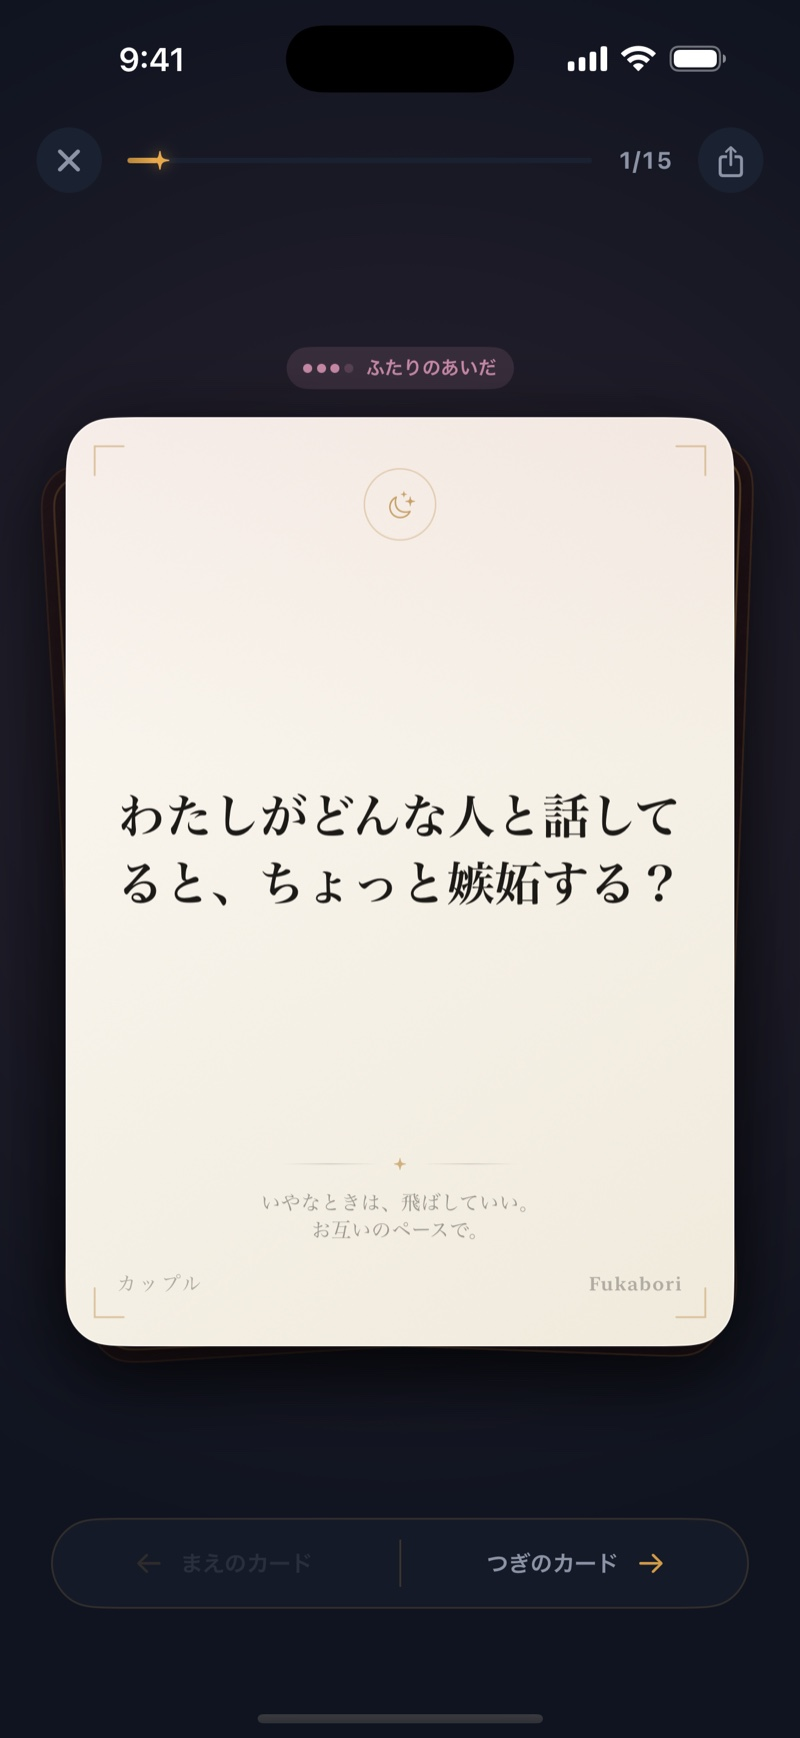
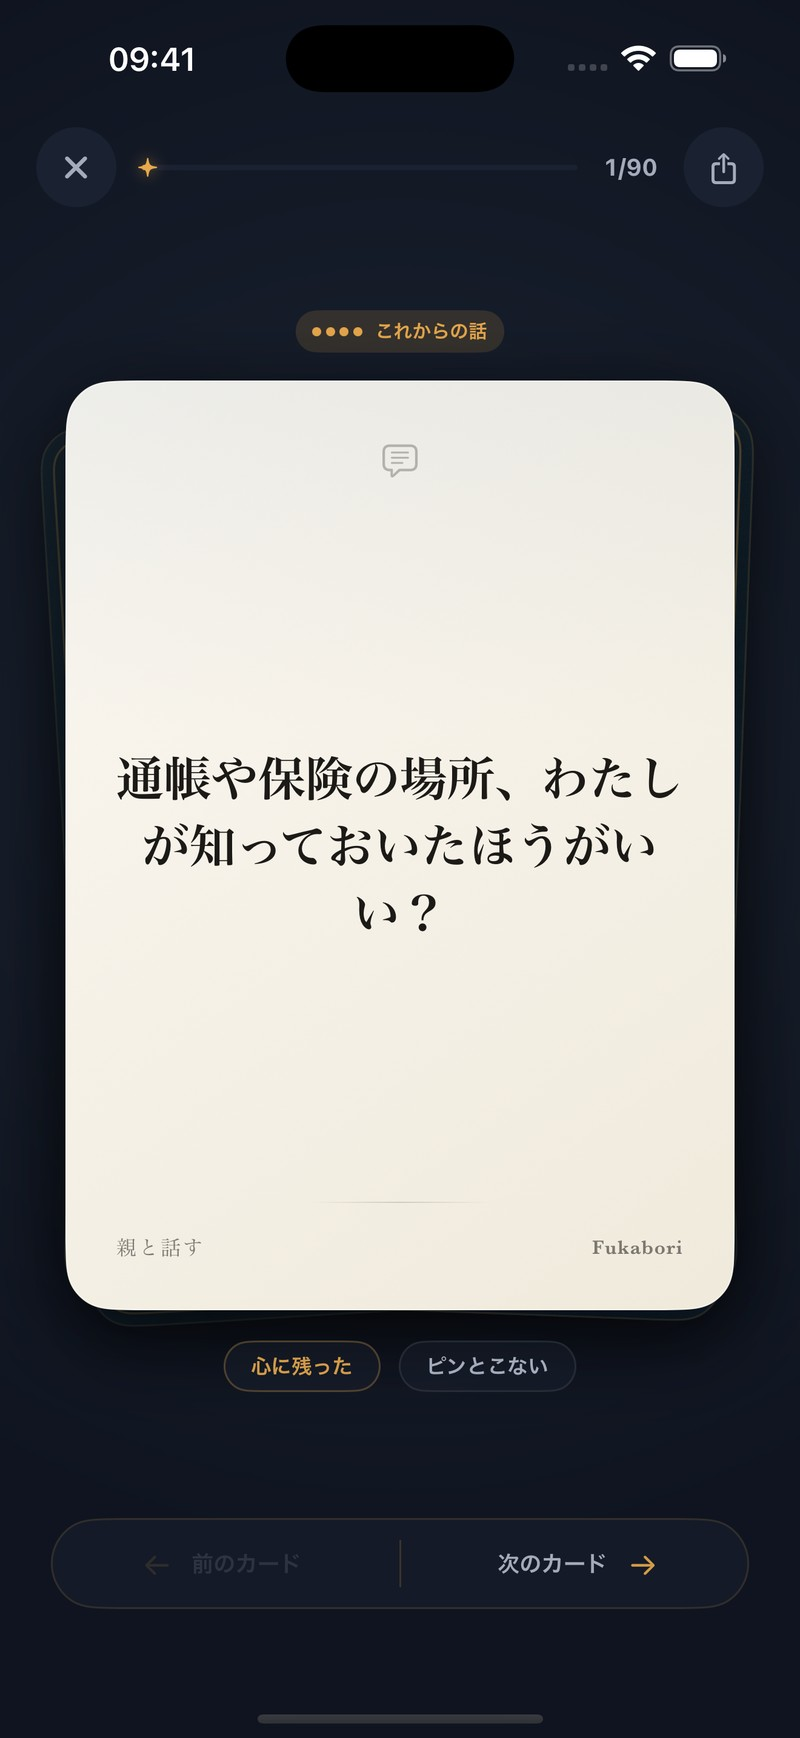
新アイコンと会話を主役にしたデザインを公開

diff --git a/index.html b/index.html
@@ -25,14 +25,12 @@
   .ic { width: 1em; height: 1em; vertical-align: -0.12em; }
   .ic-line { width: 24px; height: 24px; }
   .qcard.back .ic { width: 34px; height: 34px; color: var(--amber); filter: drop-shadow(0 0 12px rgba(232,169,76,.45)); }
-  .moon-stamp .ic { width: 18px; height: 18px; }
   a { color: inherit; text-decoration: none; }
   .wrap { max-width: 1080px; margin: 0 auto; padding: 0 24px; }
 
   /* nav */
   nav { display: flex; align-items: center; justify-content: space-between; padding: 22px 0; }
   .logo { display: flex; align-items: center; gap: 10px; color: var(--amber); font-size: 22px; }
-  .logo .moon { font-size: 18px; }
   .logo small { color: var(--text2); font-size: 11px; letter-spacing: 3px; margin-left: 2px; }
   nav .links { display: flex; gap: 28px; font-size: 13px; color: var(--text2); }
   nav .links a:hover { color: var(--amber); }
@@ -106,7 +104,8 @@
   }
   .qcard.paper .level { display: flex; align-items: center; gap: 7px; font-size: 11px; color: #5c8d7c; font-weight: 600; }
   .qcard.paper .level i { width: 8px; height: 8px; border-radius: 50%; background: #7FB6A4; }
-  .qcard.paper .q { margin: auto 0; font-size: 21px; font-weight: 600; line-height: 1.9; }
+  .qcard.paper .q { text-wrap: balance; margin: auto 0; font-size: 21px; font-weight: 600; line-height: 1.9; }
+  .qcard.paper .q span { display: block; white-space: nowrap; }
   .qcard.paper .foot { display: flex; justify-content: space-between; font-size: 11px; color: rgba(28,26,23,.4); }
   .qcard.back {
     background: linear-gradient(180deg, #1D2536, #121826);
@@ -114,11 +113,10 @@
     left: 50%; top: 46%;
     display: flex; align-items: center; justify-content: center; flex-direction: column; gap: 8px;
   }
-  .qcard.back::before {
-    content: ""; position: absolute; inset: 7px; border-radius: 16px;
-    border: 1px solid rgba(232,169,76,.45);
-  }
-  .qcard.back .moon { font-size: 34px; color: var(--amber); text-shadow: 0 0 24px rgba(232,169,76,.45); }
+
+  .qcard.back { overflow: hidden; }
+  .qcard.back img { width: 100%; height: 100%; object-fit: cover; }
+  .qcard.back::after { content: ""; position: absolute; inset: 0; background: rgba(11,15,24,.28); pointer-events: none; }
   .qcard.back .name { color: rgba(232,169,76,.8); font-size: 16px; }
   .qcard.back.b1 { transform: translate(-88%,-54%) rotate(-14deg); z-index: 1; opacity: .85; }
   .qcard.back.b2 { transform: translate(-14%,-48%) rotate(9deg); z-index: 2; }
@@ -163,7 +161,6 @@
     letter-spacing: 1.5px; color: rgba(28,26,23,.55);
     border: 1px solid rgba(28,26,23,.3); border-radius: 999px; padding: 4px 10px;
   }
-  .deck-card .moon-stamp { position: absolute; right: 24px; bottom: 20px; color: rgba(28,26,23,.18); }
 
   .paid-note { text-align: center; margin-top: 34px; color: var(--text2); font-size: 13px; }
   .paid-note b { color: var(--amber); font-weight: 600; }
@@ -276,7 +273,13 @@
 
     /* 縦積みではカードを小さくして、扇の幅を画面内に収める。
        transform: scale で縮めると .hero の overflow:hidden に切られる */
+    nav .logo small { display: none; }
+    nav .logo { flex-shrink: 0; font-size: 20px; }
+    nav .btn { white-space: nowrap; padding: 11px 16px; font-size: 12px; }
     .stage { height: 330px; }
+    .qcard { width: 190px; height: 270px; }
+    .qcard.paper { padding: 22px; }
+    .qcard.paper .q { font-size: 17px; line-height: 1.7; }
     .fan { width: 190px; }
     .fan.back.left  { transform: translate(-80%,-52%) rotate(-13deg); }
     .fan.back.right { transform: translate(-20%,-49%) rotate(10deg); }
@@ -346,13 +349,16 @@
   document.head.appendChild(s);
 })();
 </script>
+<link rel="icon" type="image/png" sizes="32x32" href="img/brand/favicon-32.png">
+<link rel="icon" type="image/png" sizes="16x16" href="img/brand/favicon-16.png">
+<link rel="apple-touch-icon" sizes="180x180" href="img/brand/apple-touch-icon.png">
 </head>
 <body>
 
 <div class="wrap">
   <nav>
     <a class="logo serif-en" href="#">
-      <svg class="ic" viewBox="0 0 24 24" fill="currentColor" xmlns="http://www.w3.org/2000/svg"><path d="M17.39 20.42 L16.13 21.11 L14.79 21.60 L13.39 21.90 L11.96 22.00 L10.53 21.89 L9.13 21.58 L7.79 21.07 L6.54 20.37 L5.39 19.51 L4.39 18.49 L3.54 17.33 L2.86 16.07 L2.38 14.72 L2.09 13.32 L2.00 11.89 L2.12 10.46 L2.44 9.06 L2.96 7.72 L3.66 6.48 L4.54 5.34 L5.57 4.34 L6.73 3.50 L8.00 2.84 L9.35 2.36 L8.39 3.05 L7.52 3.86 L6.76 4.76 L6.10 5.74 L5.57 6.80 L5.16 7.91 L4.89 9.06 L4.76 10.23 L4.76 11.42 L4.91 12.59 L5.19 13.74 L5.61 14.85 L6.15 15.90 L6.81 16.88 L7.59 17.77 L8.46 18.56 L9.43 19.25 L10.46 19.82 L11.56 20.26 L12.70 20.57 L13.87 20.74 L15.06 20.77 L16.23 20.67 L17.39 20.42Z"/></svg>Fukabori <small>フカボリ</small>
+      <img src="img/brand/app-icon.png" width="32" height="32" alt="" style="border-radius:8px">Fukabori <small>フカボリ</small>
     </a>
     <div class="links">
       <a href="#scenes">使う場面</a>
@@ -384,13 +390,14 @@
         <span class="chip">オフラインでも使える</span>
       </div>
     </div>
-    <!-- アプリの実画面から切り出した本物のカード。
-         カップルデッキの実際の質問と、そのデッキの裏面。
-         イラストではなく中身を見せたほうが、何のアプリか一目で伝わる -->
-    <div class="stage" aria-hidden="true">
-      <img class="fan back left"  src="./img/app/hero_card_back.png"  alt="">
-      <img class="fan back right" src="./img/app/hero_card_back.png"  alt="">
-      <img class="fan front"      src="./img/app/hero_card_front.png" alt="">
+    <div class="stage" aria-label="カップルデッキの質問例">
+      <div class="qcard back b1" aria-hidden="true"><img src="img/deck/couple_v1.jpg" alt=""></div>
+      <div class="qcard back b2" aria-hidden="true"><img src="img/deck/couple_v1.jpg" alt=""></div>
+      <div class="qcard paper">
+        <div class="level">会話のきっかけ</div>
+        <p class="q serif"><span>わたしのいちばん</span><span>好きな食べ物、</span><span>当ててみて</span></p>
+        <div class="foot"><span>カップル</span><span class="serif-en">Fukabori</span></div>
+      </div>
     </div>
   </div>
 </header>
@@ -464,7 +471,7 @@
     <h2>画面はこんな感じ</h2>
     <div class="screens">
       <figure><img src="./img/app/screen_home.jpg" alt="デッキを選ぶ画面" width="800" height="1738" loading="lazy" decoding="async"><figcaption>今夜の相手と気分でデッキを選ぶ</figcaption></figure>
-      <figure><img src="./img/app/screen_pile.jpg" alt="カードの束" width="800" height="1738" loading="lazy" decoding="async"><figcaption>スマホを真ん中に置いて、1枚めくる</figcaption></figure>
+      <figure><img src="./img/app/screen_intro.jpg" alt="実際の質問が読める導入画面" width="800" height="1738" loading="lazy" decoding="async"><figcaption>最初の質問から、会話をはじめる</figcaption></figure>
       <figure><img src="./img/app/screen_card.jpg" alt="質問カード" width="800" height="1738" loading="lazy" decoding="async"><figcaption>声に出して答える。いやなら飛ばしていい</figcaption></figure>
     </div>
   </div>
@@ -472,7 +479,7 @@
 
 <section id="decks" style="padding-top: 0;">
   <div class="wrap">
-    <h2>19のデッキ、ぜんぶ無料で試せる</h2>
+    <h2>20のデッキ、ぜんぶ無料で試せる</h2>
     <p class="sub">どのデッキも、はじめの15問は無料。気に入ったら買い切り（¥280〜）かプレミアムで全問解放。</p>
 
     <!-- アプリの棚と同じ絵。1枚1枚に描き下ろしのアートがある、が伝わるように並べる -->
@@ -480,39 +487,39 @@
       <div class="shelf-row">
         <span class="shelf-label">ひとりの夜に</span>
         <div class="deck-strip">
-          <figure class="deck"><img src="./img/deck/self_v1.jpg" alt="セルフケア" width="480" height="720" loading="lazy" decoding="async"><figcaption><b>セルフケア</b>がんばった日の、手当て。<span>87問</span></figcaption></figure>
-          <figure class="deck"><img src="./img/deck/breakup_v1.jpg" alt="失恋" width="480" height="720" loading="lazy" decoding="async"><figcaption><b>失恋</b>ちゃんと痛んで、ちゃんと進む。<span>85問</span></figcaption></figure>
-          <figure class="deck"><img src="./img/deck/goals_v1.jpg" alt="目標と習慣" width="480" height="720" loading="lazy" decoding="async"><figcaption><b>目標と習慣</b>決意を、続く形に。<span>89問</span></figcaption></figure>
-          <figure class="deck"><img src="./img/deck/shukatsu_v1.jpg" alt="自己分析" width="480" height="720" loading="lazy" decoding="async"><figcaption><b>自己分析</b>語れる言葉に、変えていく。<span>88問</span></figcaption></figure>
-          <figure class="deck"><img src="./img/deck/thirties_v1.jpg" alt="30代の棚おろし" width="480" height="720" loading="lazy" decoding="async"><figcaption><b>30代の棚おろし</b>気づけば、折り返し。<span>88問</span></figcaption></figure>
+          <figure class="deck"><img src="./img/deck/self_v1.jpg" alt="セルフケア" width="480" height="720" loading="lazy" decoding="async"><figcaption><b>セルフケア</b>がんばった日の、手当て。<span>86問</span></figcaption></figure>
+          <figure class="deck"><img src="./img/deck/breakup_v1.jpg" alt="失恋" width="480" height="720" loading="lazy" decoding="async"><figcaption><b>失恋</b>ちゃんと痛んで、ちゃんと進む。<span>90問</span></figcaption></figure>
+          <figure class="deck"><img src="./img/deck/goals_v1.jpg" alt="目標と習慣" width="480" height="720" loading="lazy" decoding="async"><figcaption><b>目標と習慣</b>決意を、続く形に。<span>92問</span></figcaption></figure>
+          <figure class="deck"><img src="./img/deck/shukatsu_v1.jpg" alt="自分を知る" width="480" height="720" loading="lazy" decoding="async"><figcaption><b>自分を知る</b>語れる言葉に、変えていく。<span>91問</span></figcaption></figure>
+          <figure class="deck"><img src="./img/deck/thirties_v1.jpg" alt="30代の棚おろし" width="480" height="720" loading="lazy" decoding="async"><figcaption><b>30代の棚おろし</b>気づけば、折り返し。<span>89問</span></figcaption></figure>
         </div>
       </div>
 
       <div class="shelf-row">
         <span class="shelf-label">ふたりの時間</span>
         <div class="deck-strip">
-          <figure class="deck"><img src="./img/deck/couple_v1.jpg" alt="カップル" width="480" height="720" loading="lazy" decoding="async"><figcaption><b>カップル</b>答えるたび、近くなる。<span>95問</span></figcaption></figure>
-          <figure class="deck"><img src="./img/deck/before_living_v1.jpg" alt="同棲前会議" width="480" height="720" loading="lazy" decoding="async"><figcaption><b>同棲前会議</b>住む前に、ぜんぶ話そう。<span>88問</span></figcaption></figure>
-          <figure class="deck"><img src="./img/deck/marriage_v1.jpg" alt="結婚前会議" width="480" height="720" loading="lazy" decoding="async"><figcaption><b>結婚前会議</b>決める前に、ぜんぶ話す。<span>88問</span></figcaption></figure>
-          <figure class="deck"><img src="./img/deck/money_v1.jpg" alt="お金の会議" width="480" height="720" loading="lazy" decoding="async"><figcaption><b>お金の会議</b>言いにくい話は、カードに言わせる。<span>88問</span></figcaption></figure>
-          <figure class="deck"><img src="./img/deck/lifeplan_v1.jpg" alt="ふたりの人生設計" width="480" height="720" loading="lazy" decoding="async"><figcaption><b>ふたりの人生設計</b>その選択、ふたりで決めたい。<span>88問</span></figcaption></figure>
+          <figure class="deck"><img src="./img/deck/couple_v1.jpg" alt="カップル" width="480" height="720" loading="lazy" decoding="async"><figcaption><b>カップル</b>答えるたび、近くなる。<span>97問</span></figcaption></figure>
+          <figure class="deck"><img src="./img/deck/before_living_v1.jpg" alt="同棲前会議" width="480" height="720" loading="lazy" decoding="async"><figcaption><b>同棲前会議</b>住む前に、ぜんぶ話そう。<span>94問</span></figcaption></figure>
+          <figure class="deck"><img src="./img/deck/marriage_v1.jpg" alt="結婚前会議" width="480" height="720" loading="lazy" decoding="async"><figcaption><b>結婚前会議</b>決める前に、ぜんぶ話す。<span>93問</span></figcaption></figure>
+          <figure class="deck"><img src="./img/deck/money_v1.jpg" alt="お金の会議" width="480" height="720" loading="lazy" decoding="async"><figcaption><b>お金の会議</b>言いにくい話は、カードに言わせる。<span>94問</span></figcaption></figure>
+          <figure class="deck"><img src="./img/deck/lifeplan_v1.jpg" alt="ふたりの人生設計" width="480" height="720" loading="lazy" decoding="async"><figcaption><b>ふたりの人生設計</b>その選択、ふたりで決めたい。<span>94問</span></figcaption></figure>
         </div>
       </div>
 
       <div class="shelf-row">
         <span class="shelf-label">家族と・集まりで</span>
         <div class="deck-strip">
-          <figure class="deck"><img src="./img/deck/kazoku_v1.jpg" alt="家族で話す" width="480" height="720" loading="lazy" decoding="async"><figcaption><b>家族で話す</b>家族なのに、意外と知らない。<span>86問</span></figcaption></figure>
-          <figure class="deck"><img src="./img/deck/parents_v1.jpg" alt="親と話す" width="480" height="720" loading="lazy" decoding="async"><figcaption><b>親と話す</b>いつか聞こうを、今日にする。<span>83問</span></figcaption></figure>
-          <figure class="deck"><img src="./img/deck/kids_v1.jpg" alt="子どもと話す" width="480" height="720" loading="lazy" decoding="async"><figcaption><b>子どもと話す</b>もう一問だけ、聞かせて。<span>81問</span></figcaption></figure>
-          <figure class="deck"><img src="./img/deck/bestfriend_v1.jpg" alt="親友とサシで" width="480" height="720" loading="lazy" decoding="async"><figcaption><b>親友とサシで</b>十年分を、一晩で。<span>80問</span></figcaption></figure>
-          <figure class="deck"><img src="./img/deck/icebreak_v1.jpg" alt="初対面" width="480" height="720" loading="lazy" decoding="async"><figcaption><b>初対面</b>三分で、打ち解ける。<span>76問</span></figcaption></figure>
+          <figure class="deck"><img src="./img/deck/kazoku_v1.jpg" alt="家族で話す" width="480" height="720" loading="lazy" decoding="async"><figcaption><b>家族で話す</b>家族なのに、意外と知らない。<span>89問</span></figcaption></figure>
+          <figure class="deck"><img src="./img/deck/parents_v1.jpg" alt="親と話す" width="480" height="720" loading="lazy" decoding="async"><figcaption><b>親と話す</b>いつか聞こうを、今日にする。<span>90問</span></figcaption></figure>
+          <figure class="deck"><img src="./img/deck/kids_v1.jpg" alt="子どもと話す" width="480" height="720" loading="lazy" decoding="async"><figcaption><b>子どもと話す</b>もう一問だけ、聞かせて。<span>85問</span></figcaption></figure>
+          <figure class="deck"><img src="./img/deck/bestfriend_v1.jpg" alt="親友とサシで" width="480" height="720" loading="lazy" decoding="async"><figcaption><b>親友とサシで</b>十年分を、一晩で。<span>83問</span></figcaption></figure>
+          <figure class="deck"><img src="./img/deck/icebreak_v1.jpg" alt="初対面" width="480" height="720" loading="lazy" decoding="async"><figcaption><b>初対面</b>三分で、打ち解ける。<span>78問</span></figcaption></figure>
         </div>
       </div>
     </div>
 
     <p class="paid-note">
-      ほかに <b>友達</b>／<b>子育て会議</b>／<b>恋バナ</b>。
+      ほかに <b>友達</b>／<b>子育て会議</b>／<b>恋バナ</b>／<b>これまでの恋、これからのふたり</b>／<b>あらためて、ふたりで</b>。
     </p>
   </div>
 </section>
@@ -531,7 +538,7 @@
         <div class="name">有料デッキ（買い切り）</div>
         <div class="price">¥280〜</div>
         <div class="per">1デッキごと・買い切り</div>
-        <ul><li>¥280 … カップル／友達／セルフケア／失恋／家族で話す／親と話す／子どもと話す／初対面／親友とサシで／恋バナ</li><li>¥410 … 目標と習慣／自己分析／30代の棚おろし／同棲前会議／お金の会議</li><li>¥530 … 結婚前会議／ふたりの人生設計／子育て会議</li><li>¥610 … あらためて、ふたりで</li></ul>
+        <ul><li>¥280 … カップル／友達／セルフケア／失恋／家族で話す／親と話す／子どもと話す／初対面／親友とサシで／恋バナ</li><li>¥410 … 目標と習慣／自分を知る／30代の棚おろし／同棲前会議／お金の会議</li><li>¥530 … 結婚前会議／ふたりの人生設計／子育て会議／これまでの恋、これからのふたり</li><li>¥610 … あらためて、ふたりで</li></ul>
       </div>
       <div class="panel price-card featured">
         <div class="name">プレミアム</div>
@@ -554,7 +561,7 @@
 
 <div class="wrap">
   <footer>
-    <span class="serif-en" style="color: var(--amber);"><svg class="ic" viewBox="0 0 24 24" fill="currentColor" xmlns="http://www.w3.org/2000/svg"><path d="M17.39 20.42 L16.13 21.11 L14.79 21.60 L13.39 21.90 L11.96 22.00 L10.53 21.89 L9.13 21.58 L7.79 21.07 L6.54 20.37 L5.39 19.51 L4.39 18.49 L3.54 17.33 L2.86 16.07 L2.38 14.72 L2.09 13.32 L2.00 11.89 L2.12 10.46 L2.44 9.06 L2.96 7.72 L3.66 6.48 L4.54 5.34 L5.57 4.34 L6.73 3.50 L8.00 2.84 L9.35 2.36 L8.39 3.05 L7.52 3.86 L6.76 4.76 L6.10 5.74 L5.57 6.80 L5.16 7.91 L4.89 9.06 L4.76 10.23 L4.76 11.42 L4.91 12.59 L5.19 13.74 L5.61 14.85 L6.15 15.90 L6.81 16.88 L7.59 17.77 L8.46 18.56 L9.43 19.25 L10.46 19.82 L11.56 20.26 L12.70 20.57 L13.87 20.74 L15.06 20.77 L16.23 20.67 L17.39 20.42Z"/></svg> Fukabori</span>
+    <span class="serif-en" style="color: var(--amber);"><img src="img/brand/app-icon.png" width="24" height="24" alt="" style="border-radius:6px;vertical-align:middle;margin-right:6px"> Fukabori</span>
     <div class="links">
       <a href="./legal/terms.html">利用規約</a>
       <a href="./legal/privacy.html">プライバシーポリシー</a>

diff --git a/feedback.html b/feedback.html
@@ -102,16 +102,19 @@
   .done { text-align: center; padding: 66px 0; }
   .done h2 { font-size: 23px; font-weight: 700; letter-spacing: 1px; }
   .done p { color: var(--text2); font-size: 14px; margin-top: 16px; }
-  .done .moon { color: var(--amber); font-size: 30px; }
+  .done .confirmation { color: var(--amber); font-size: 30px; }
 
   footer { margin-top: 46px; color: var(--text2); font-size: 12px; }
   footer a { color: var(--text2); text-decoration: underline; }
 </style>
+<link rel="icon" type="image/png" sizes="32x32" href="img/brand/favicon-32.png">
+<link rel="icon" type="image/png" sizes="16x16" href="img/brand/favicon-16.png">
+<link rel="apple-touch-icon" sizes="180x180" href="img/brand/apple-touch-icon.png">
 </head>
 <body>
 <div class="wrap">
   <header>
-    <span class="logo">☾ Fukabori <small>フカボリ</small></span>
+    <span class="logo"><img src="img/brand/app-icon.png" width="32" height="32" alt="" style="border-radius:8px;vertical-align:middle;margin-right:8px"> Fukabori <small>フカボリ</small></span>
   </header>
 
   <main id="main">
@@ -278,7 +281,7 @@
   function done() {
     document.getElementById("main").innerHTML = `
       <div class="done">
-        <div class="moon">☾</div>
+        <div class="confirmation" aria-hidden="true">✓</div>
         <h2>ありがとうございます</h2>
         <p>いただいた内容は、ぜんぶ読んでいます。<br>
            カードとデッキの改善に使わせてください。</p>

diff --git a/legal/privacy.html b/legal/privacy.html
@@ -9,6 +9,9 @@
   h1 { font-size: 24px; } h2 { font-size: 18px; margin-top: 2em; }
   footer { margin-top: 3em; color: #777; font-size: 13px; }
 </style>
+<link rel="icon" type="image/png" sizes="32x32" href="../img/brand/favicon-32.png">
+<link rel="icon" type="image/png" sizes="16x16" href="../img/brand/favicon-16.png">
+<link rel="apple-touch-icon" sizes="180x180" href="../img/brand/apple-touch-icon.png">
 </head>
 <body>
 <h1>Fukabori プライバシーポリシー</h1>

diff --git a/legal/terms.html b/legal/terms.html
@@ -9,6 +9,9 @@
   h1 { font-size: 24px; } h2 { font-size: 18px; margin-top: 2em; }
   footer { margin-top: 3em; color: #777; font-size: 13px; }
 </style>
+<link rel="icon" type="image/png" sizes="32x32" href="../img/brand/favicon-32.png">
+<link rel="icon" type="image/png" sizes="16x16" href="../img/brand/favicon-16.png">
+<link rel="apple-touch-icon" sizes="180x180" href="../img/brand/apple-touch-icon.png">
 </head>
 <body>
 <h1>Fukabori 利用規約</h1>
